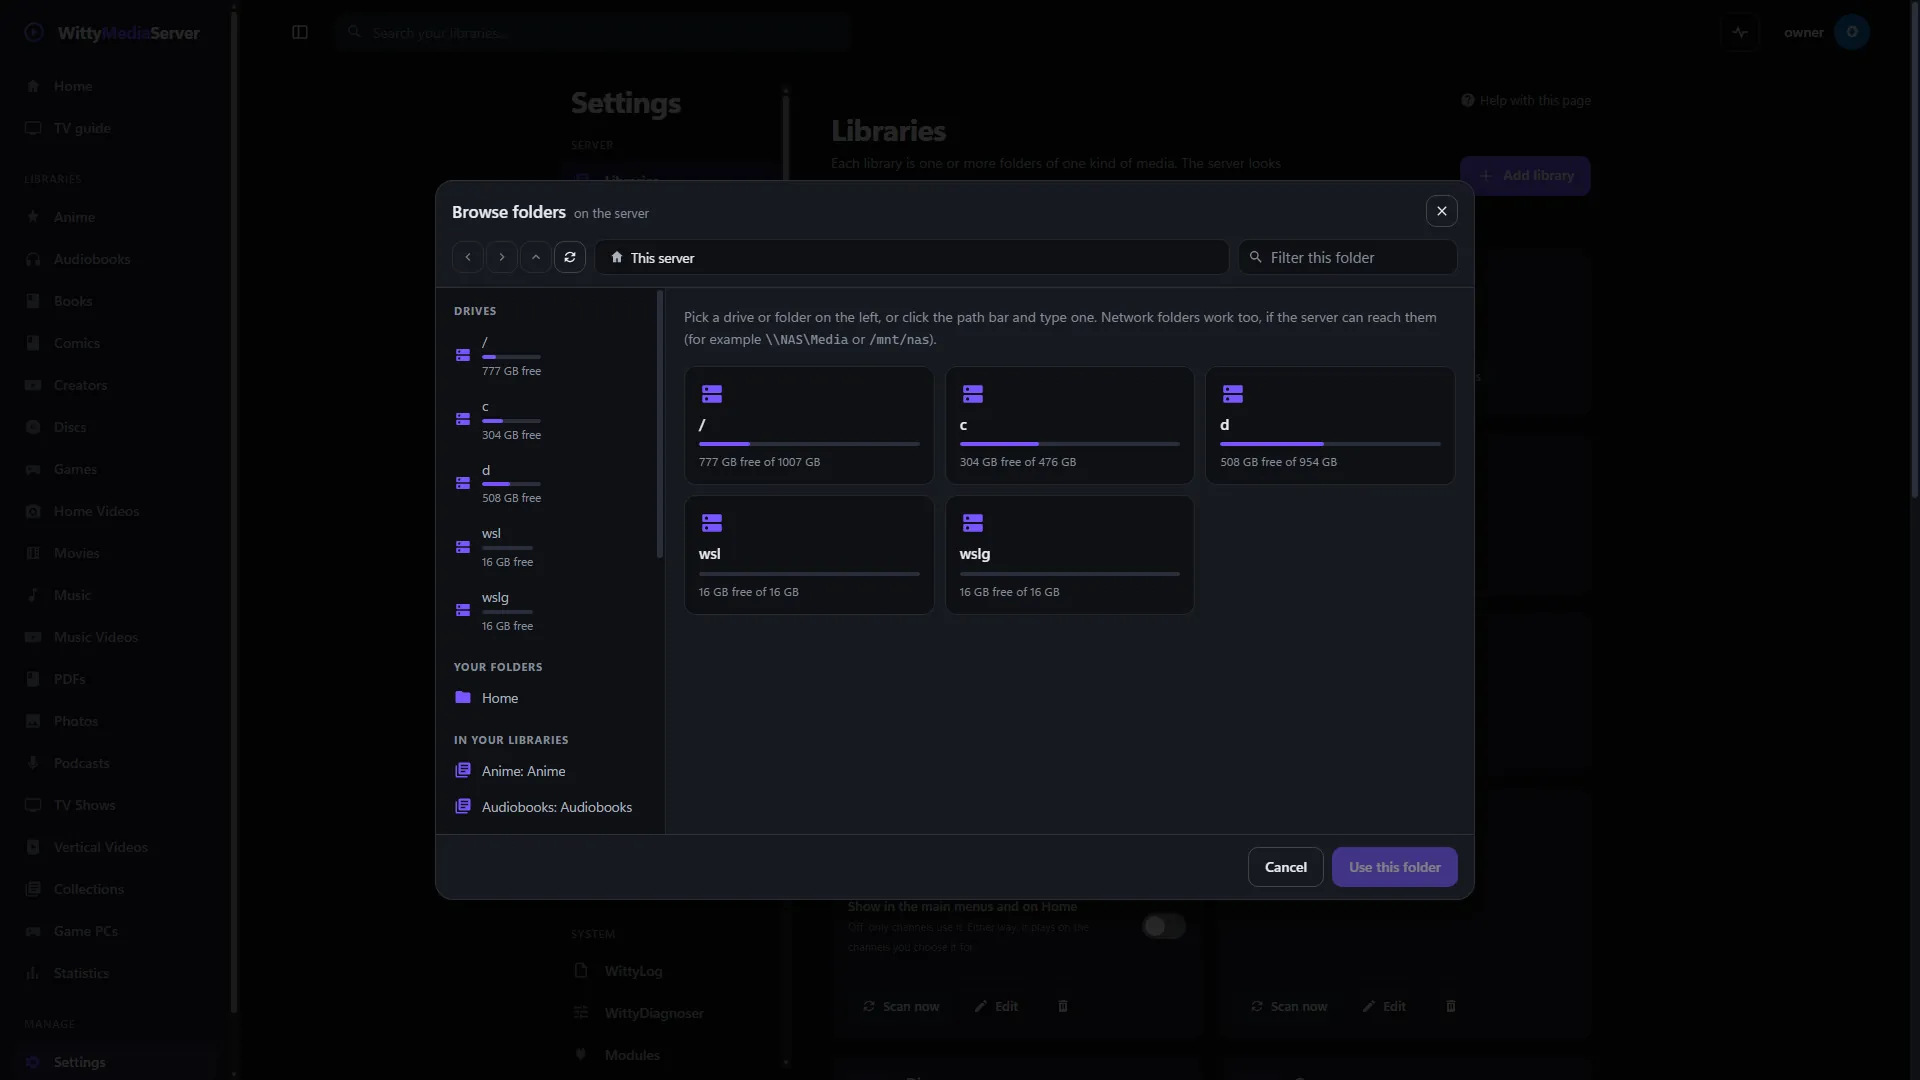
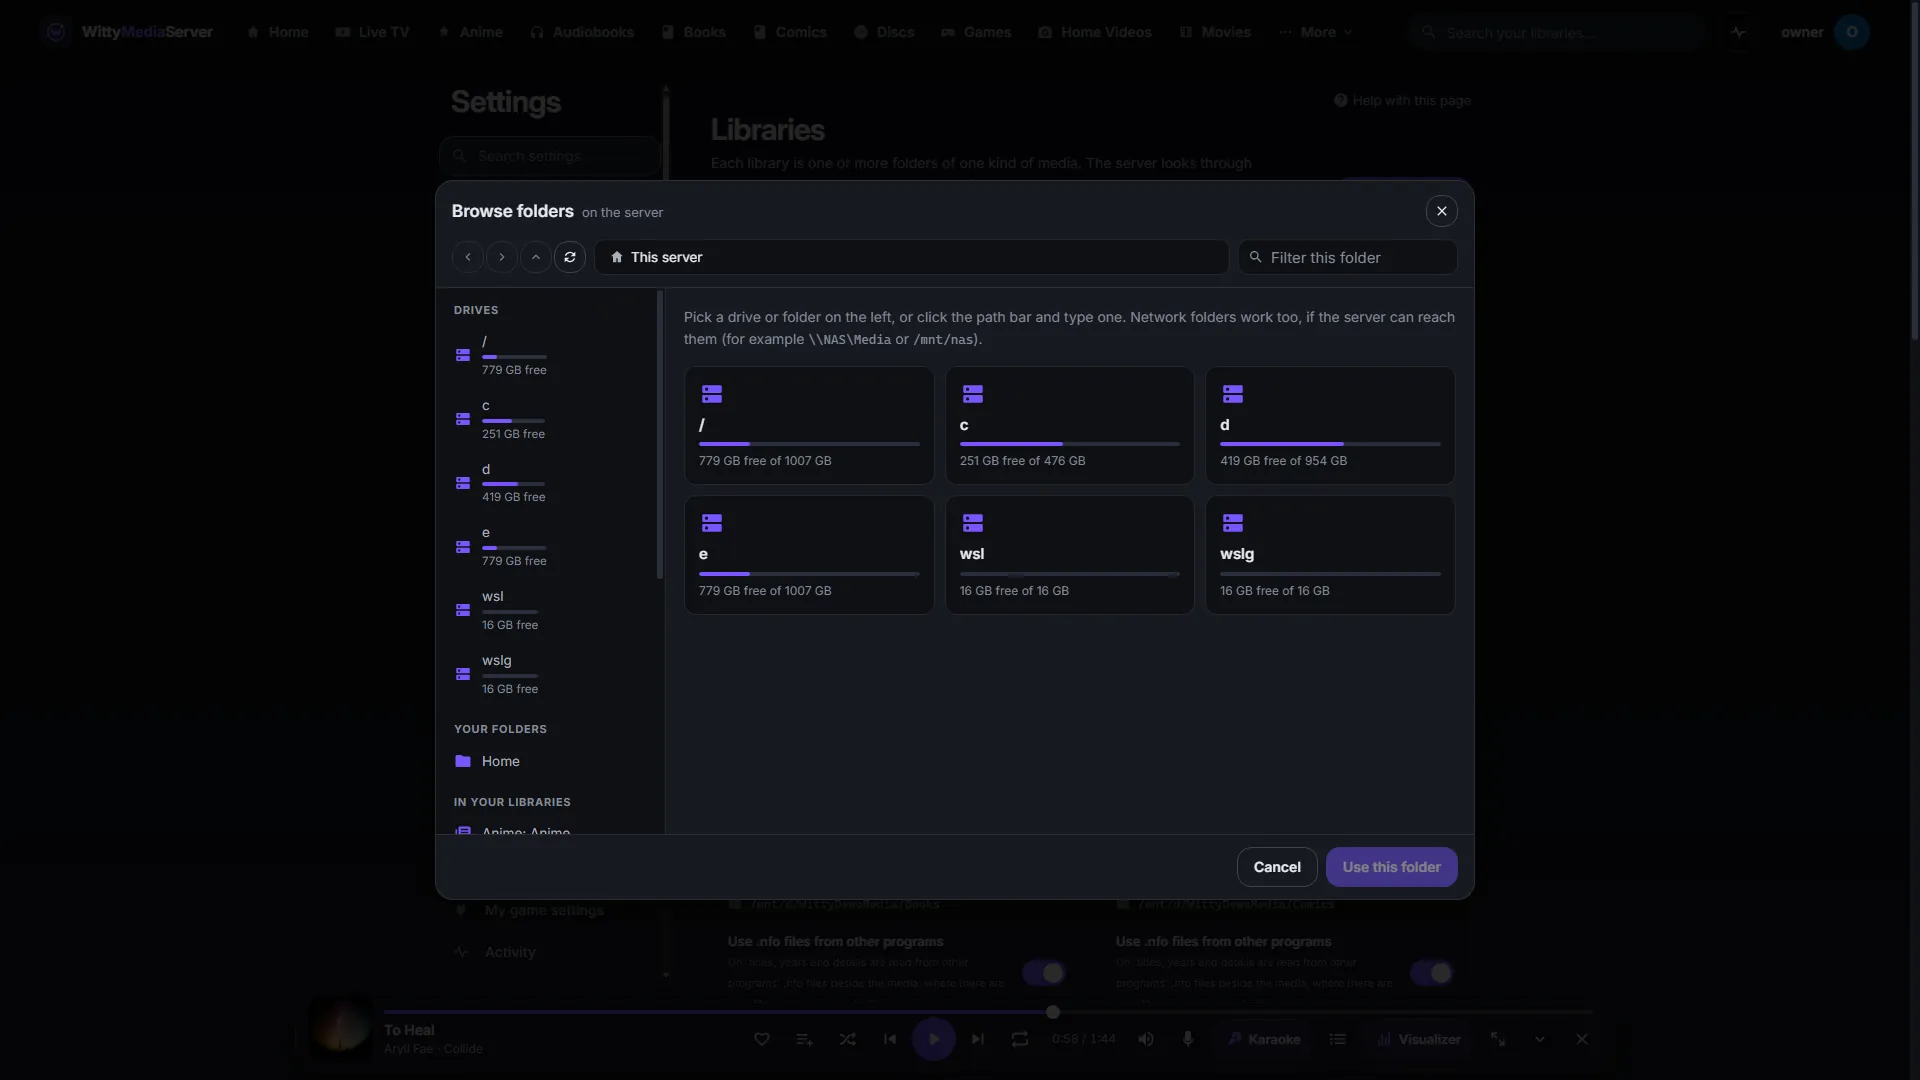
README pictures retaken from WittyMediaServer 0.8.0-alpha (#31)
Taken on a test server with open media from WittyDemoMedia only.

diff --git a/CHANGELOG.md b/CHANGELOG.md
@@ -3,6 +3,10 @@
 What changed in WittyIntegratedFileBrowser, newest first. What changed before it had a repository of its own is in the
 [WittyMediaServer changelog](https://github.com/wittywilla/WittyMediaServer/blob/master/CHANGELOG.md).
 
+## 0.4.1
+
+- The README's picture is retaken from WittyMediaServer 0.8.0-alpha, on a test server with open media only.
+
 ## 0.4.0
 
 - **Module API 5 (0.4.0):** carries `integration.json`, built on WittyModule 0.5.4 (its workflows use it too). It claims no routes, data or lifecycle: the server keeps `GET /api/fs`, calls the helper's `places` and `list` as before and checks what they answer. The web part exports `register(host)`, which claims nothing yet; the folder window stays its default export.
